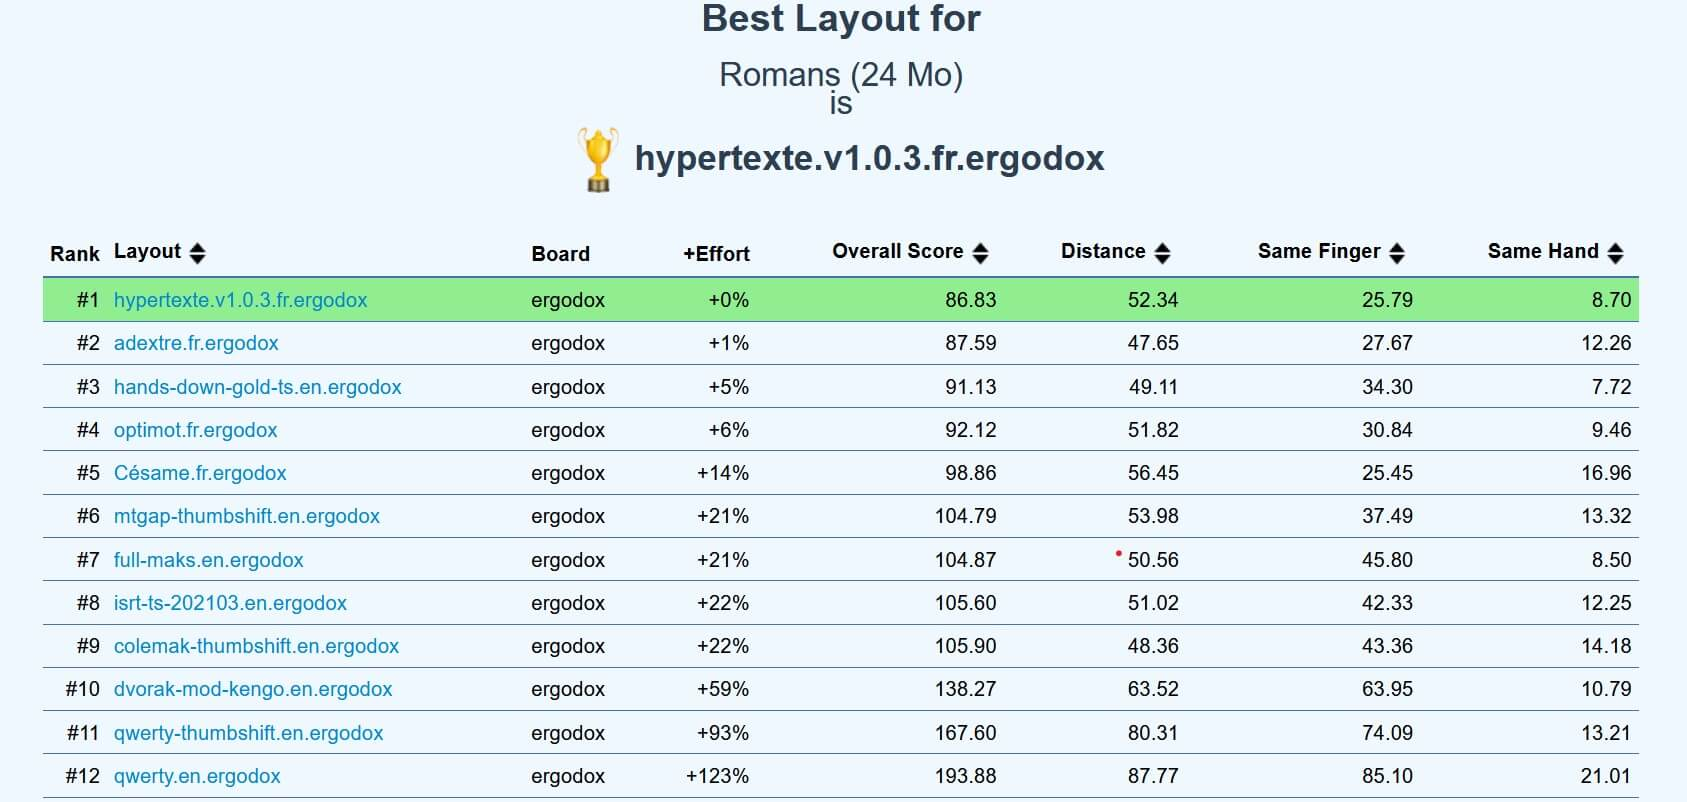
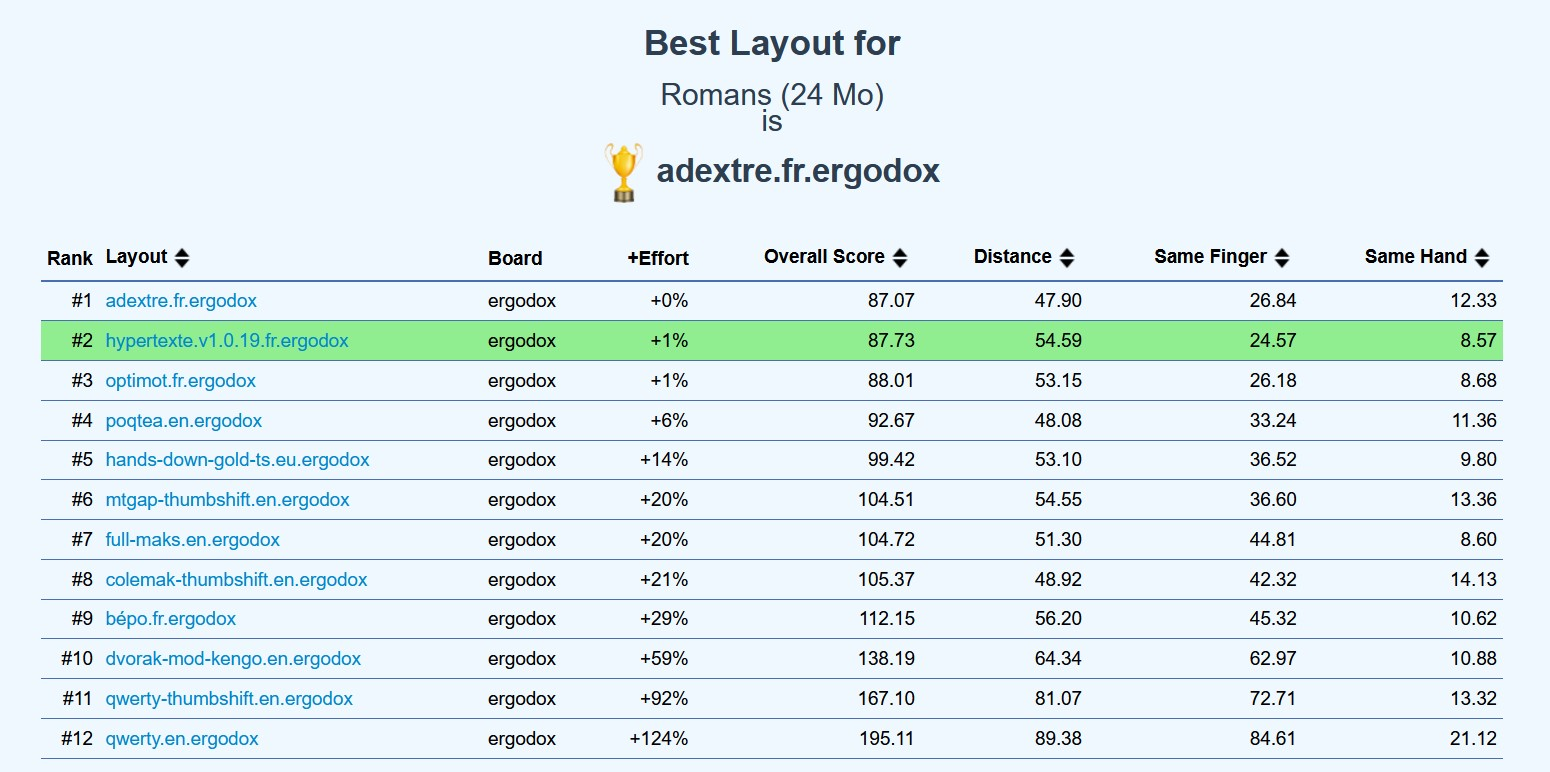
Amélioration des benchmarks

Changed region(s): [[0.0, 0.2798, 0.991, 1.0], [0.3406, 0.0, 0.6503, 0.2487]]

diff --git a/src/routes/benchmarks/+page.svelte b/src/routes/benchmarks/+page.svelte
@@ -20,22 +20,32 @@
 	}
 
 	let liste_benchmarks_fr = [
-		['Essais', 'essais'],
-		['Corpus Panaché', 'panache'],
-		['Livre de Savoir II', 'LdS'],
-		['Romans', 'romans']
+		['Corpus Panaché (Pyjam)', 'panache'],
+		['Essais (Pyjam)', 'essais'],
+		['Corpus Johnix Mails', 'corgus_johnix_mails'],
+		['Corpus Nemolivier', 'corpus_nemolivier_propre'],
+		['Romans (24Mo)', 'romans']
 	];
 
 	let liste_benchmarks_en = [
-		['Chained English Bigrams 7 (1M)', 'chained_english_bigrams7'],
-		['Chained Proglish Bigrams 7 (1M)', 'chained_proglish_bigrams7'],
-		['Chained Code Bigrams 7 (1M)', 'chained_code_bigrams7']
+		['Chained English Bigrams 9 (3M)', 'chained_english_bigrams_9'],
+		['Chained English Bigrams 7 (1M)', 'chained_english_bigrams_7'],
+		['Chained Proglish Bigrams 7 (1M)', 'chained_proglish_bigrams_7'],
+		['500 Common Words in Prose (664K)', '500_common_words_in_prose'],
+		['Common SAT Words (9K)', 'common_sat_words'],
+		['Chained Code Bigrams 7 (1M)', 'chained_code_bigrams_7'],
+		['Programming Ponctuation (10K)', 'programming_punctuation'],
+		['Python for Everybody (437K)', 'python_for_everybody'],
+		['Think C++ (330K)', 'think_c++'],
+		['Think Java (380K)', 'think_java'],
+		['Data Munging with Perl (600K)', 'data_munging_with_perl'],
+		['Practical PHP Testing  (95K)', 'practical_php_testing']
 	];
 
 	let clavier = 'iso';
 	let langue = 'fr';
-	let corpus_fr = 'essais';
-	let corpus_en = 'chained_english_bigrams7';
+	let corpus_fr = 'panache';
+	let corpus_en = 'chained_english_bigrams_9';
 </script>
 
 <svelte:head>
@@ -181,8 +191,8 @@
 		</p>
 	</section>
 	<mini-espace />
-	<div class="btn-group">
-		<button on:click={toggleLangue}>
+	<div style="background: #00000091; padding: 0.5rem; margin:0 auto; text-align: center;">
+		<button on:click={toggleLangue} style="height:2.5rem;">
 			{#if langue === 'fr'}
 				{@html '<p><span class="hyper">Français</span>➜&nbsp;<span class="texte">Anglais</span></p>'}
 			{:else}
@@ -190,23 +200,23 @@
 			{/if}
 		</button>
 
-		<button on:click={toggleClavier}>
+		<button on:click={toggleClavier} style="height:2.5rem;">
 			{#if clavier === 'ergodox'}
 				{@html '<p><span class="ergodox-text-gradient">Ergodox</span> ➜&nbsp;ISO</p>'}
 			{:else}
 				{@html '<p>ISO&nbsp;➜ <span class="ergodox-text-gradient">Ergodox</span></p>'}
 			{/if}
 		</button>
-		<div>
+		<div style="display:inline-block;">
 			{#if langue === 'fr'}
-				<select bind:value={corpus_fr}>
+				<select bind:value={corpus_fr} style="height:2.5rem;">
 					{#each liste_benchmarks_fr as infos_benchmark}<option value={infos_benchmark[1]}
 							>{infos_benchmark[0]}</option
 						>{/each}
 				</select>
 			{/if}
 			{#if langue === 'en'}
-				<select bind:value={corpus_en}>
+				<select bind:value={corpus_en} style="height:2.5rem;">
 					{#each liste_benchmarks_en as infos_benchmark}<option value={infos_benchmark[1]}
 							>{infos_benchmark[0]}</option
 						>{/each}
